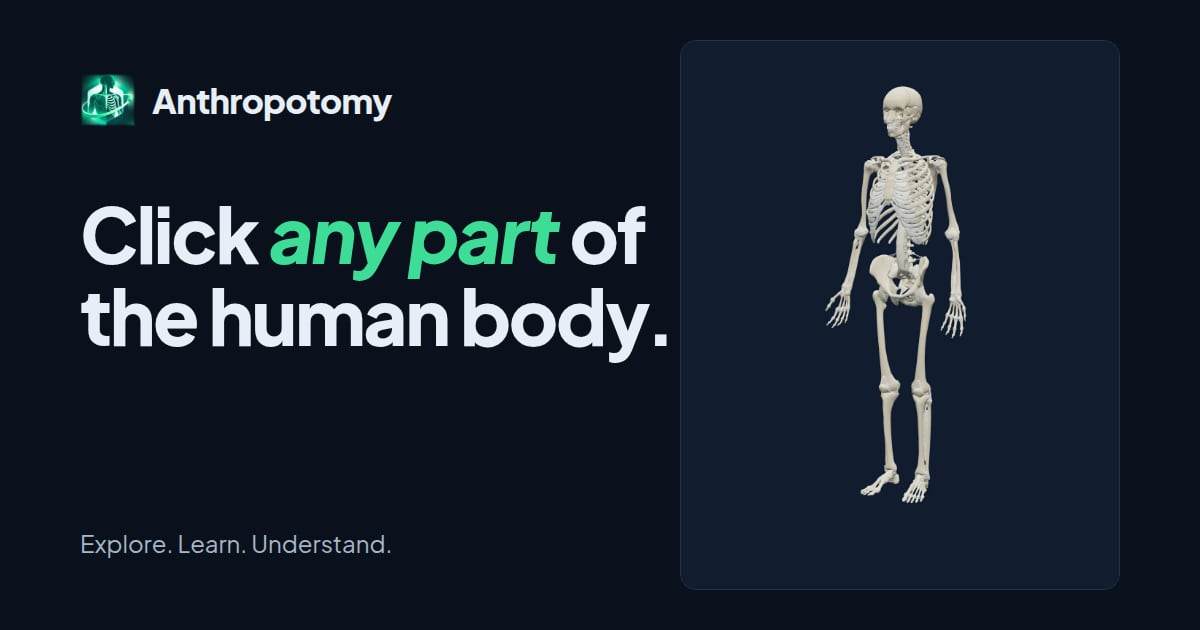
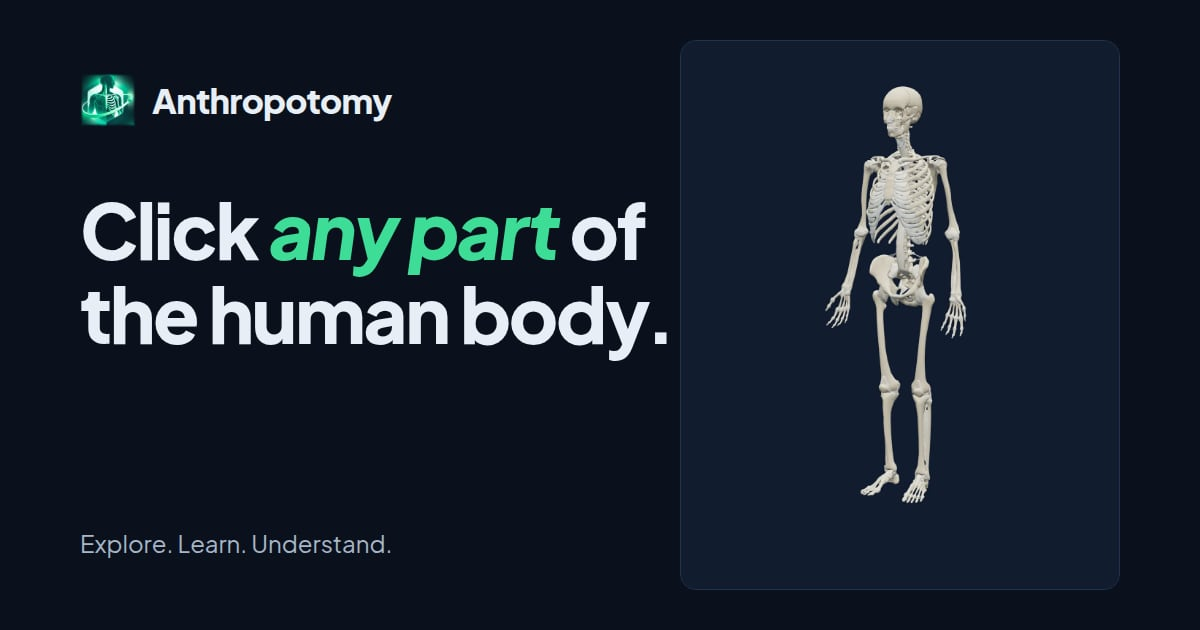
Readable console message for a failed model download; share image line height
Three.js reports a failed download as a ProgressEvent with no message,
so the one console line now says what happened. The share image's
italic headline gets the 1.1 line height its descenders need.

Claude-Session: https://claude.ai/code/session_01C7Zz64swL6XnybG5BRM21P

diff --git a/landing-src/og/og-image.html b/landing-src/og/og-image.html
@@ -14,7 +14,7 @@
   .copy { position: absolute; left: 80px; top: 72px; width: 600px; }
   .brand { display: flex; align-items: center; gap: 16px; font-size: 34px; font-weight: 800; letter-spacing: -0.02em; }
   .brand img { width: 56px; height: 56px; }
-  h1 { margin-top: 64px; font-size: 76px; font-weight: 800; line-height: 1.08; letter-spacing: -0.03em; padding-bottom: 8px; }
+  h1 { margin-top: 60px; font-size: 76px; font-weight: 800; line-height: 1.1; letter-spacing: -0.03em; padding-bottom: 8px; }
   h1 em { color: var(--accent); }
   .tagline { position: absolute; left: 80px; bottom: 72px; font-size: 24px; color: var(--muted); }
   .stage { position: absolute; right: 80px; top: 40px; width: 440px; height: 550px; overflow: hidden; border-radius: 16px; border: 1px solid var(--rule); background: var(--surface); }

diff --git a/assets/js/landing-hero-3d.js b/assets/js/landing-hero-3d.js
@@ -390,7 +390,8 @@ export async function mountDemo(root, {automatic = false, wideViewport, reducedM
         setTimeout(startIntro, 400);
         return {dispose: () => end('closed')};
     } catch (error) {
-        end('error', error?.message || String(error));
+        // Three.js reports a failed download as the request's ProgressEvent, which has no message.
+        end('error', error?.message || (error instanceof Event ? 'A 3D file could not be downloaded.' : String(error)));
         return null;
     }
 }
